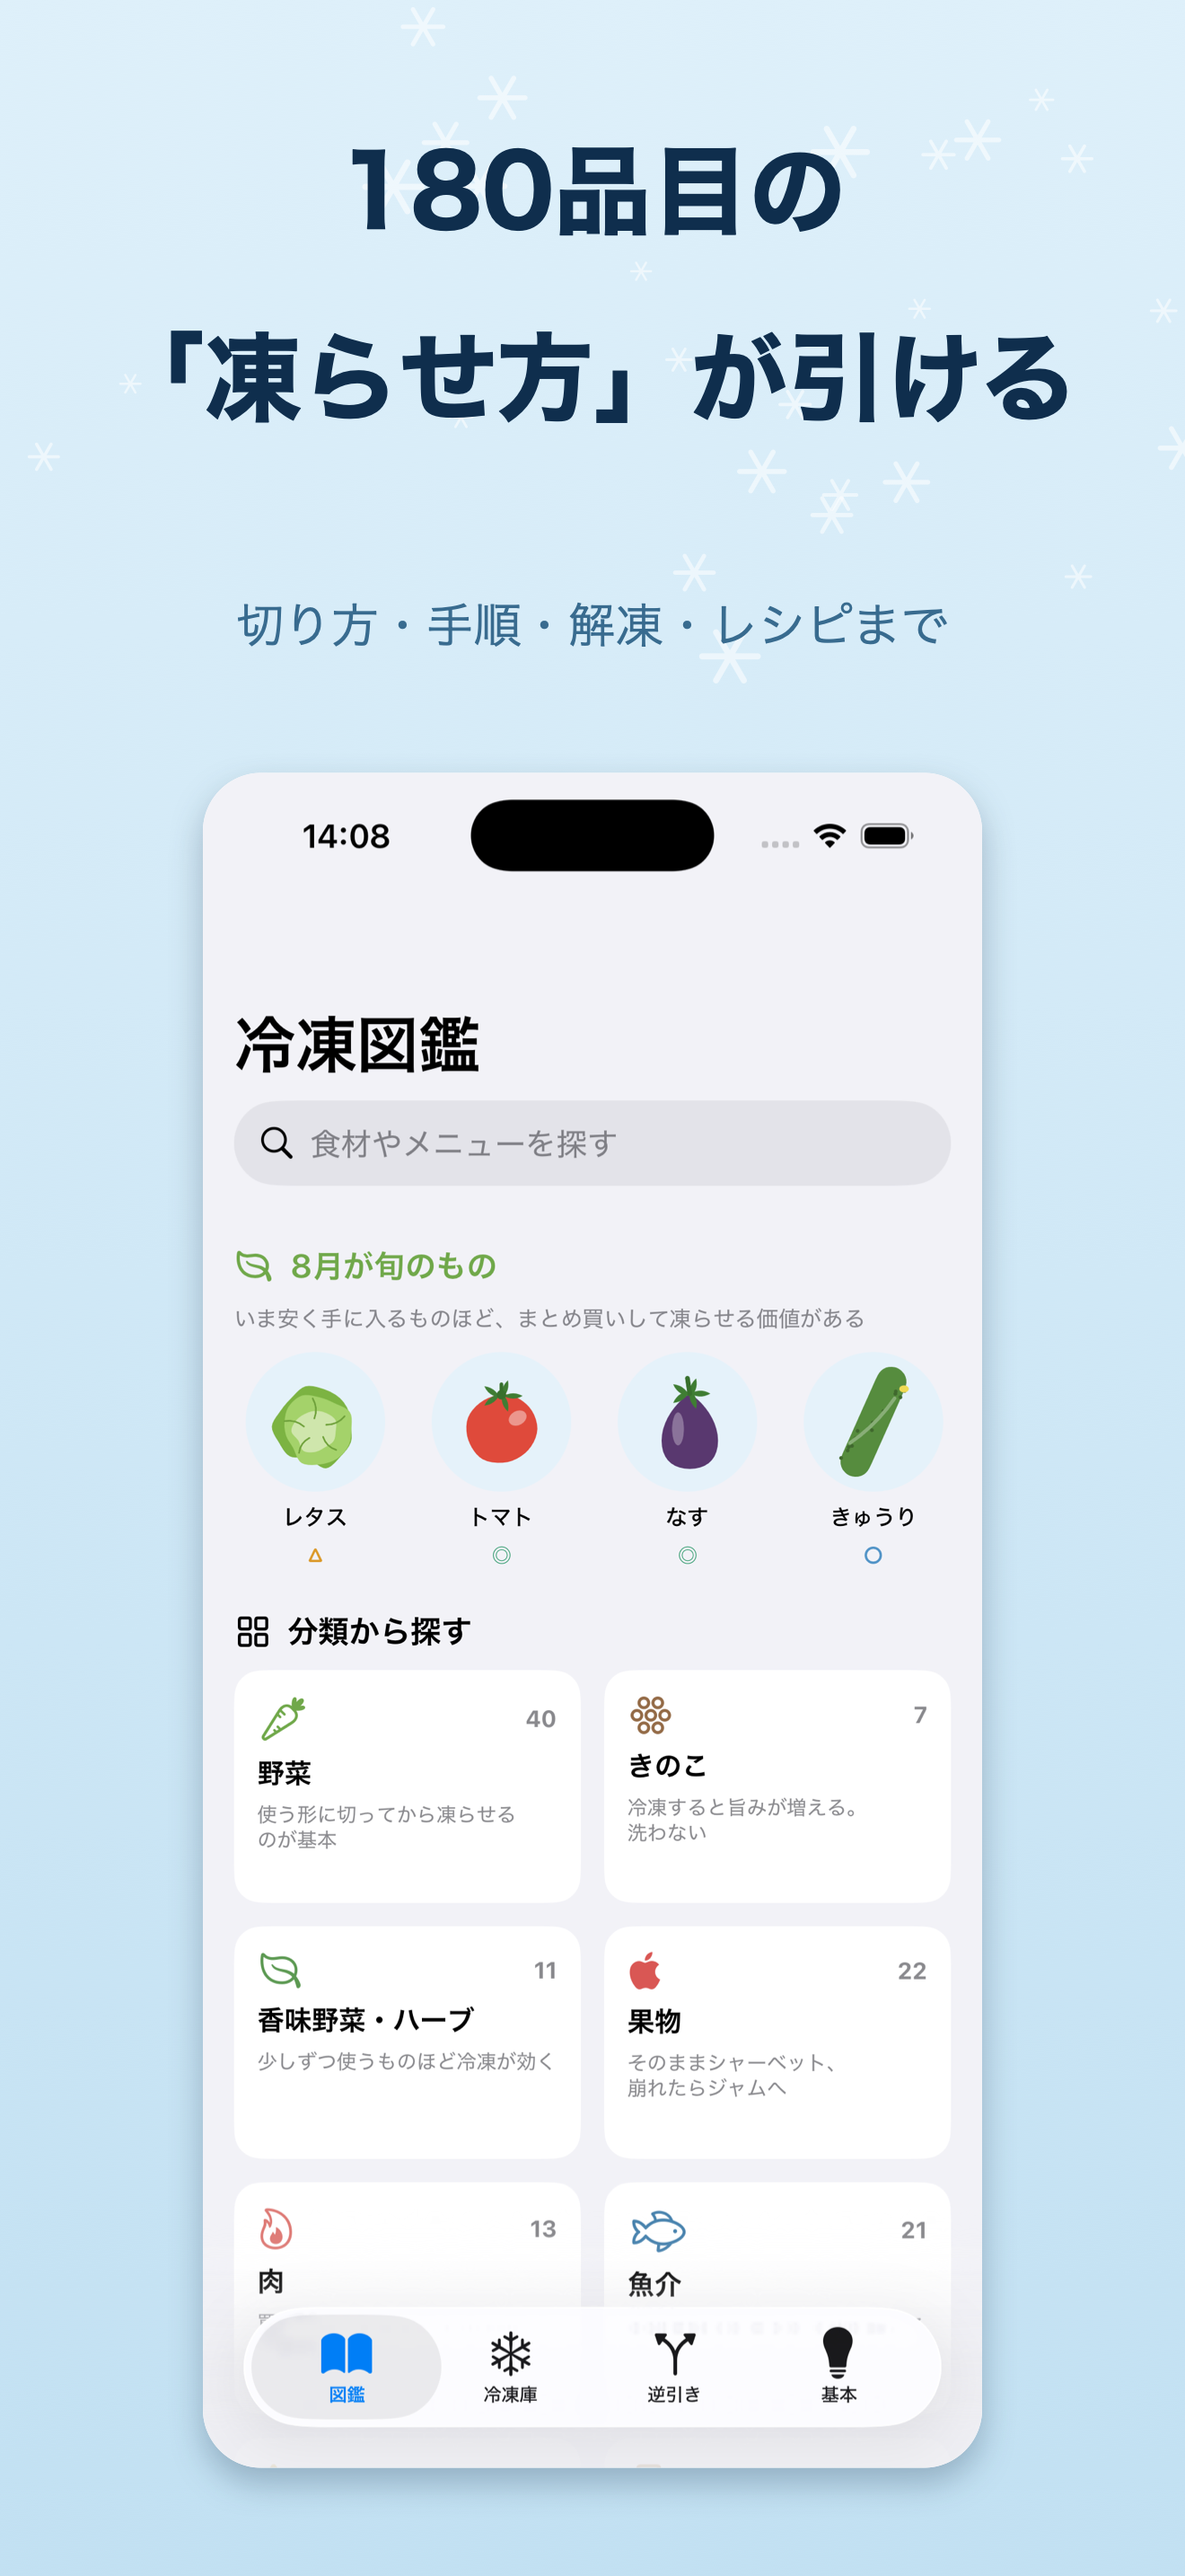
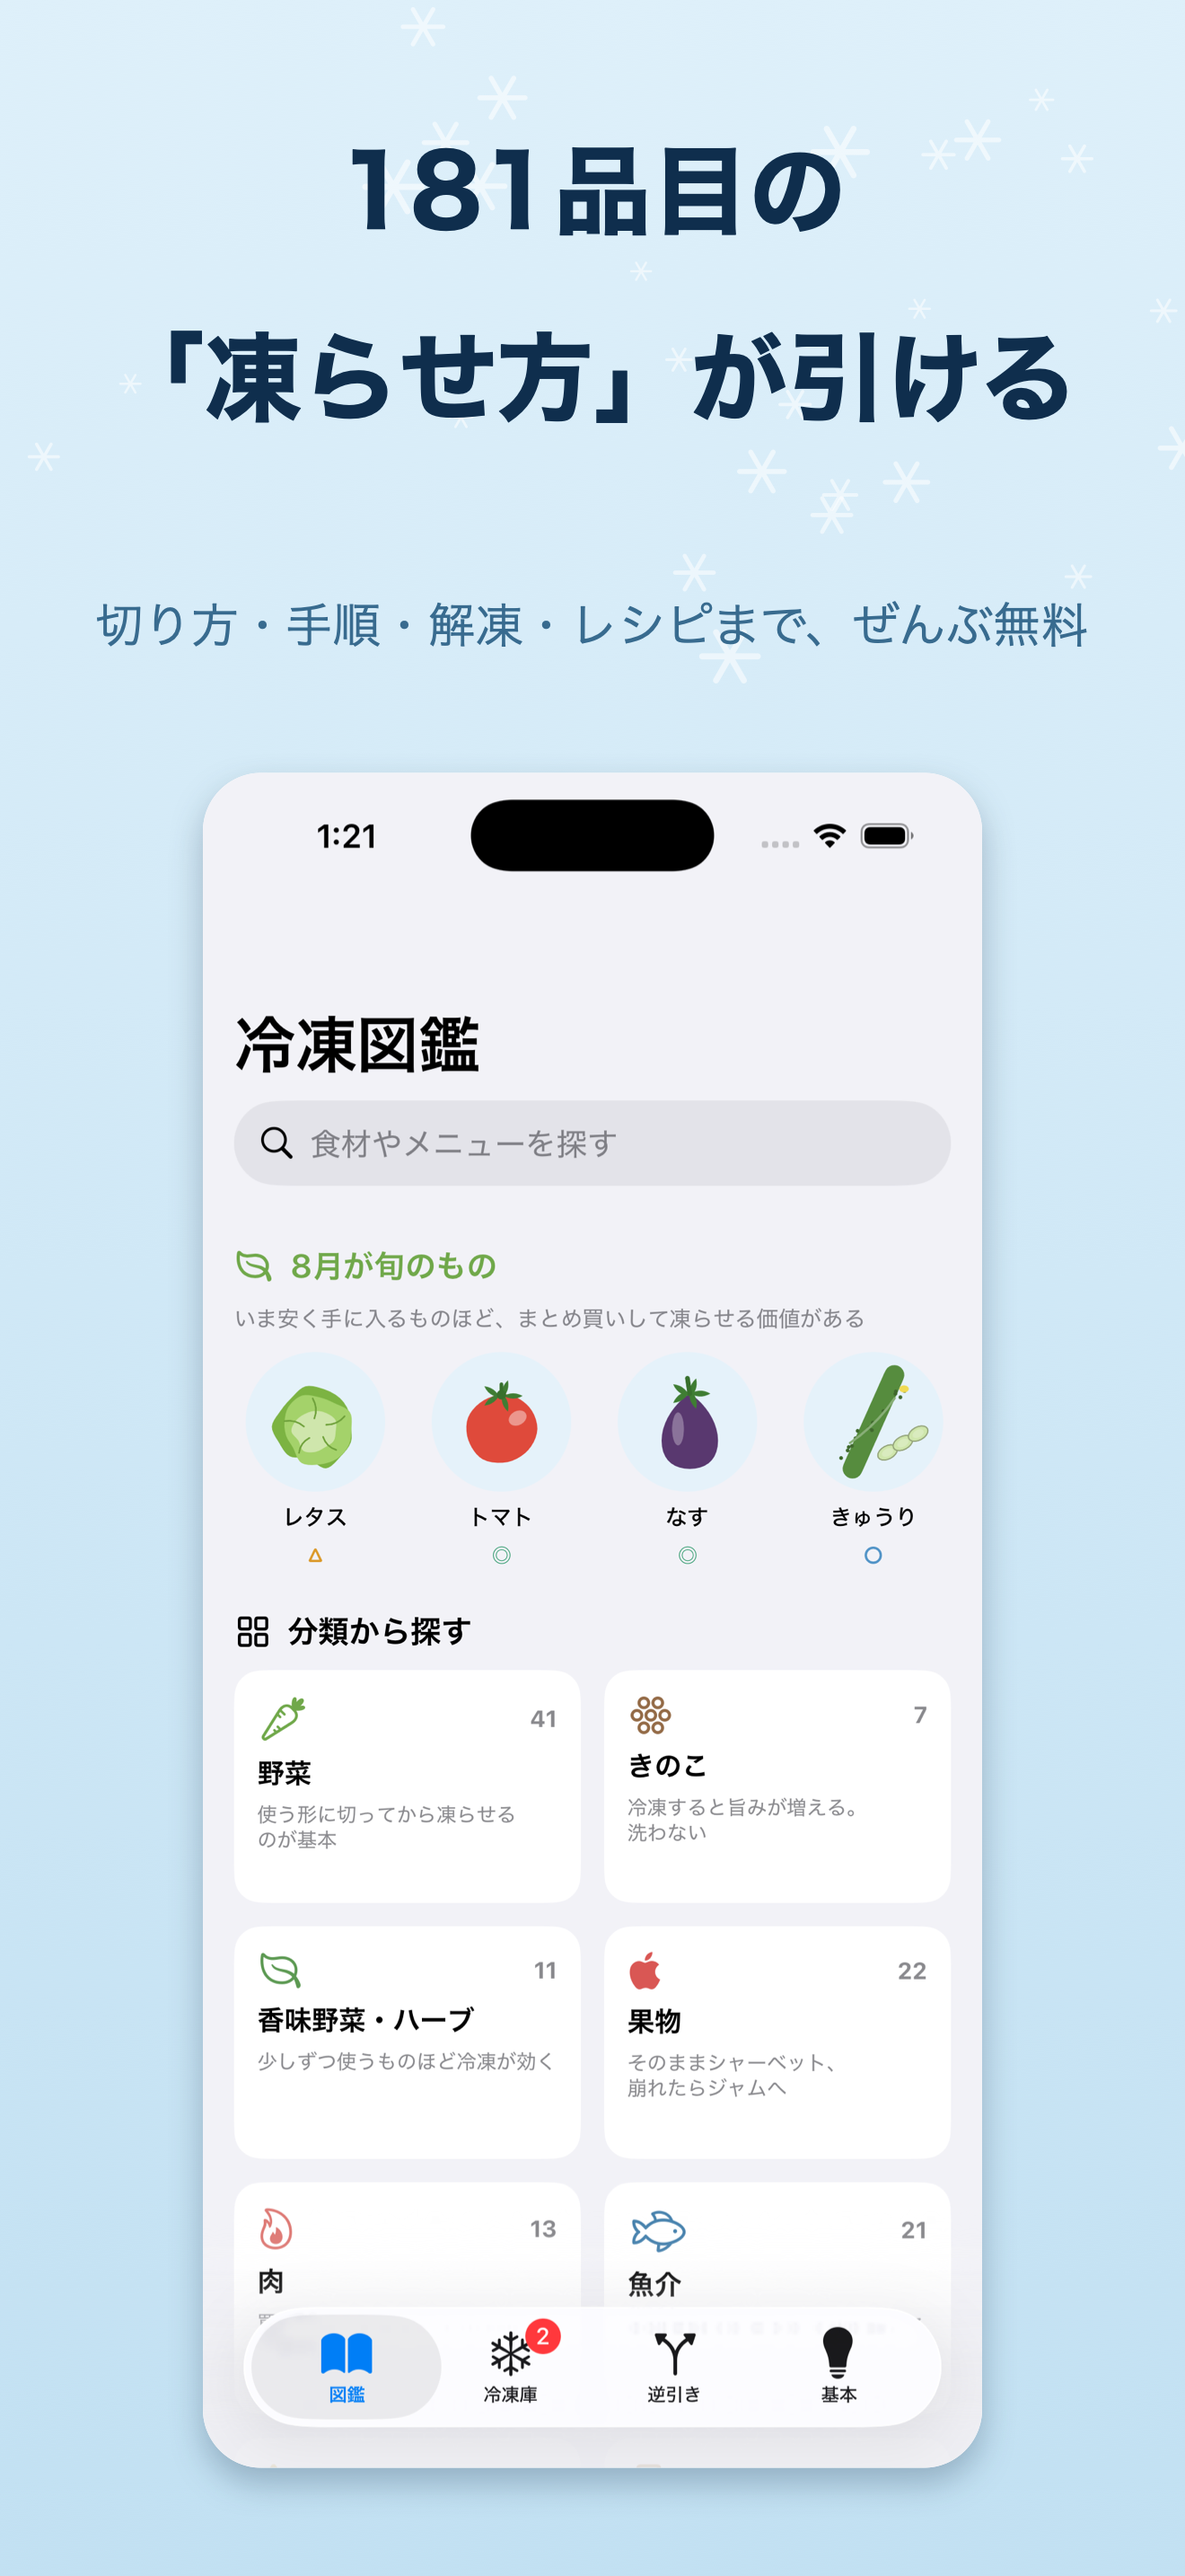
冷凍図鑑を無料化。料金・規約・プライバシーとスクショを更新
アプリ 1.0.2 で月額プランをやめ、181品目すべてを無料にした。
規約に「月額200円のご購読が必要です」と書いたままだと、
App Store から来た人がアプリの中身と食い違うものを読むことになる。

- 料金の節を「無料です／アプリ内課金もサブスクリプションもありません」に
- プライバシーポリシーの「通信が発生するのは課金のときだけ」を、
  課金が無くなったので書き直した
- 180品目 → 181品目（たけのこを足したぶん）
- スクリーンショット10枚を、描き直したイラストのものに差し替え

diff --git a/reitou/index.html b/reitou/index.html
@@ -4,7 +4,7 @@
 <meta charset="utf-8">
 <meta name="viewport" content="width=device-width, initial-scale=1">
 <title>冷凍図鑑｜食材の凍らせ方が引ける</title>
-<meta name="description" content="180品目の「どう切って、どう凍らせて、どう解凍して使うか」を引けるiOSアプリ。手順は1つずつイラストつき。冷凍庫の中身を記録して、使い切る日が近づくと通知します。">
+<meta name="description" content="181品目の「どう切って、どう凍らせて、どう解凍して使うか」を引けるiOSアプリ。手順は1つずつイラストつき。冷凍庫の中身を記録して、使い切る日が近づくと通知します。">
 <link rel="stylesheet" href="/assets/style.css?v=20260829c">
 <style>
 .shots{display:grid;grid-template-columns:repeat(auto-fill,minmax(160px,1fr));gap:14px;margin:1.2em 0}
@@ -85,7 +85,7 @@
 </nav>
 
 <h1>冷凍図鑑</h1>
-<p class="tagline">その食材、どう凍らせる？ 180品目の答えが1つの図鑑に。</p>
+<p class="tagline">その食材、どう凍らせる？ 181品目の答えが1つの図鑑に。</p>
 
 <p>
 「安かったから買ったけれど、使い切れずに傷ませてしまった」をなくすアプリです。
@@ -97,7 +97,7 @@ iPhone・iPad 対応です。
 
 <h2>画面</h2>
 <div class="shots">
-  <a href="shots/01.png"><img src="thumbs/01.jpg" alt="180品目の凍らせ方が引ける" loading="lazy" width="322" height="700"></a>
+  <a href="shots/01.png"><img src="thumbs/01.jpg" alt="181品目の凍らせ方が引ける" loading="lazy" width="322" height="700"></a>
   <a href="shots/02.png"><img src="thumbs/02.jpg" alt="使い切る日が近づくと通知" loading="lazy" width="322" height="700"></a>
   <a href="shots/03.png"><img src="thumbs/03.jpg" alt="分類から食材をすぐ見つける" loading="lazy" width="322" height="700"></a>
   <a href="shots/04.png"><img src="thumbs/04.jpg" alt="手順は1つずつ絵で分かる" loading="lazy" width="322" height="700"></a>
@@ -113,7 +113,7 @@ iPhone・iPad 対応です。
 
 <h2>できること</h2>
 <ul>
-  <li><strong>180品目の凍らせ方</strong>──野菜・果物・肉・魚介・乳製品・練り物・主食・惣菜・デザートまで11分類</li>
+  <li><strong>181品目の凍らせ方</strong>──野菜・果物・肉・魚介・乳製品・練り物・主食・惣菜・デザートまで11分類</li>
   <li><strong>手順は1つずつイラストつき</strong>──「洗う」がほうれん草なら緑の束が器に入り、しいたけならしいたけが入ります</li>
   <li><strong>やり方が複数ある食材は、使い道で選べます</strong>──生のまま／下ゆでして／すりおろして、など</li>
   <li><strong>解凍のしかたを、向き不向きつきで</strong>──凍ったまま加熱・流水・冷蔵庫・半解凍など11通り</li>
@@ -132,15 +132,10 @@ iPhone・iPad 対応です。
 
 <h2>料金</h2>
 <p>
-ダウンロードは無料です。<strong>60品目とコラム7本は無料でお使いいただけます。</strong>
-残りの120品目とコラム13本は、<strong>月額200円の「全品目を表示」</strong>でお読みいただけます。
+<strong>無料です。</strong>
+181品目・コラム20本のすべてを、追加の料金なしでお読みいただけます。
+アプリ内課金もサブスクリプションもありません。
 </p>
-<ul>
-  <li>自動更新のサブスクリプションです。いつでも解約できます</li>
-  <li>解約は iPhone の「設定」→ Apple ID →「サブスクリプション」から行えます</li>
-  <li>期間終了の24時間前までに解約しない限り自動更新されます</li>
-  <li>機種を変えても、同じ Apple ID なら「購読を復元」で引き継げます</li>
-</ul>
 
 <h2>お問い合わせ</h2>
 <p>

diff --git a/reitou/terms.html b/reitou/terms.html
@@ -92,19 +92,11 @@
 本アプリをダウンロードまたは利用した時点で、本規約に同意したものとみなします。
 </p>
 
-<h2>2. 料金とサブスクリプション</h2>
+<h2>2. 料金</h2>
 <ul>
-  <li>本アプリのダウンロードは無料です。60品目とコラム7本を無料でご利用いただけます。</li>
-  <li>すべての内容（180品目・コラム20本）をご覧いただくには、
-      <strong>「全品目を表示」（月額200円）</strong>のご購読が必要です。</li>
-  <li>お支払いは、購入を確定した時点で Apple ID に請求されます。</li>
-  <li><strong>期間終了の24時間前までに解約しない限り、自動的に更新されます。</strong>
-      更新料は、期間終了前の24時間以内に請求されます。</li>
-  <li>解約は、iPhone の「設定」→ Apple ID →「サブスクリプション」からいつでも行えます。
-      解約後も、購読期間の終了まではご利用いただけます。</li>
-  <li>購読期間の途中で解約された場合の日割り返金は行っておりません。
-      返金については Apple の定めに従います。</li>
-  <li>機種変更や再インストールの際は、同じ Apple ID で「購読を復元」を行ってください。</li>
+  <li><strong>本アプリは無料です。</strong>
+      181品目・コラム20本のすべてを、追加の料金なしでご利用いただけます。</li>
+  <li>アプリ内課金およびサブスクリプションはありません。</li>
 </ul>
 
 <h2>3. 内容について</h2>

diff --git a/reitou/privacy.html b/reitou/privacy.html
@@ -107,11 +107,9 @@
 表示のための通信は発生しません。写真素材も使用していないため、画像の取得もありません。
 </p>
 <p>
-通信が発生するのは、<strong>アプリ内課金（月額プラン）の購入・復元を行うときだけ</strong>です。
-このときの通信相手は Apple のサーバーであり、開発者のサーバーではありません。
-支払い情報（クレジットカード番号など）を開発者が受け取ることも、見ることもありません。
-Apple の取り扱いについては
-<a href="https://www.apple.com/legal/privacy/" target="_blank" rel="noopener">Apple のプライバシーポリシー</a>をご確認ください。
+本アプリにはアプリ内課金もサブスクリプションもないため、購入や復元のための通信も発生しません。
+アプリ内の「利用規約」「プライバシーポリシー」を開いたときだけ、
+端末の標準ブラウザでこのサイト（GitHub Pages）を表示します。
 </p>
 
 <h2>3. 通知について</h2>

diff --git a/index.html b/index.html
@@ -304,7 +304,7 @@ Takayuki Takemoto と申します。会社に属さず、ひとりで iPhone の
     <p>
     まとめ買いした食材を前にして、これは冷凍していいのか、
     生のままか茹でてからか、解凍は冷蔵庫かそのまま加熱か。
-    毎回ばらばらに検索していたことを、180品目ぶん引けるようにしました。
+    毎回ばらばらに検索していたことを、181品目ぶん引けるようにしました。
     </p>
     <p>
     手順はひとつずつイラストが付いています。
